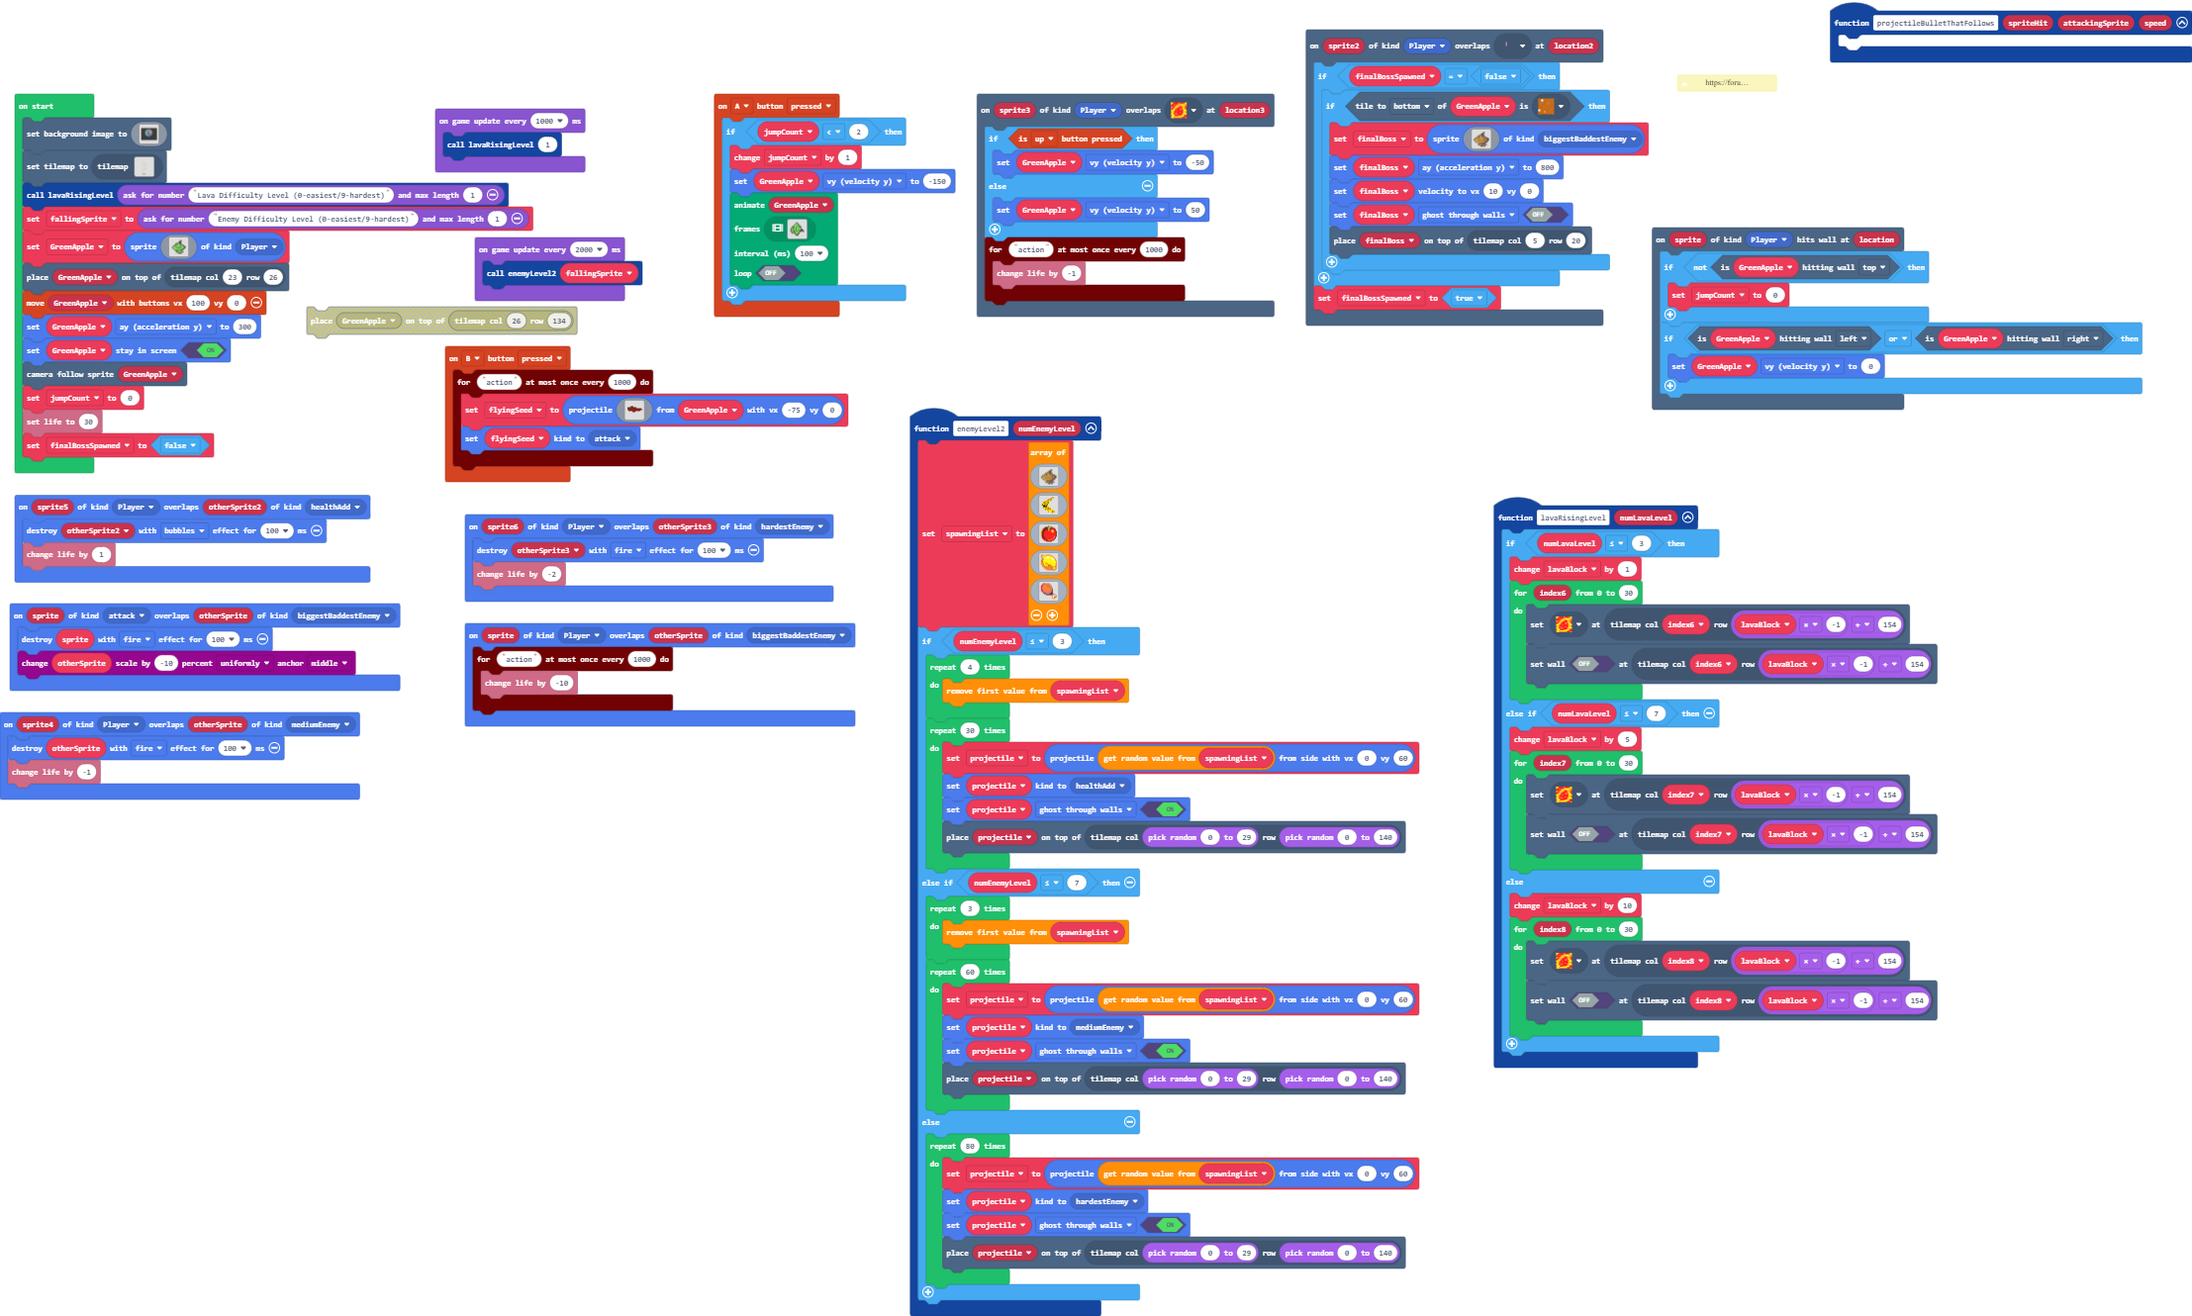
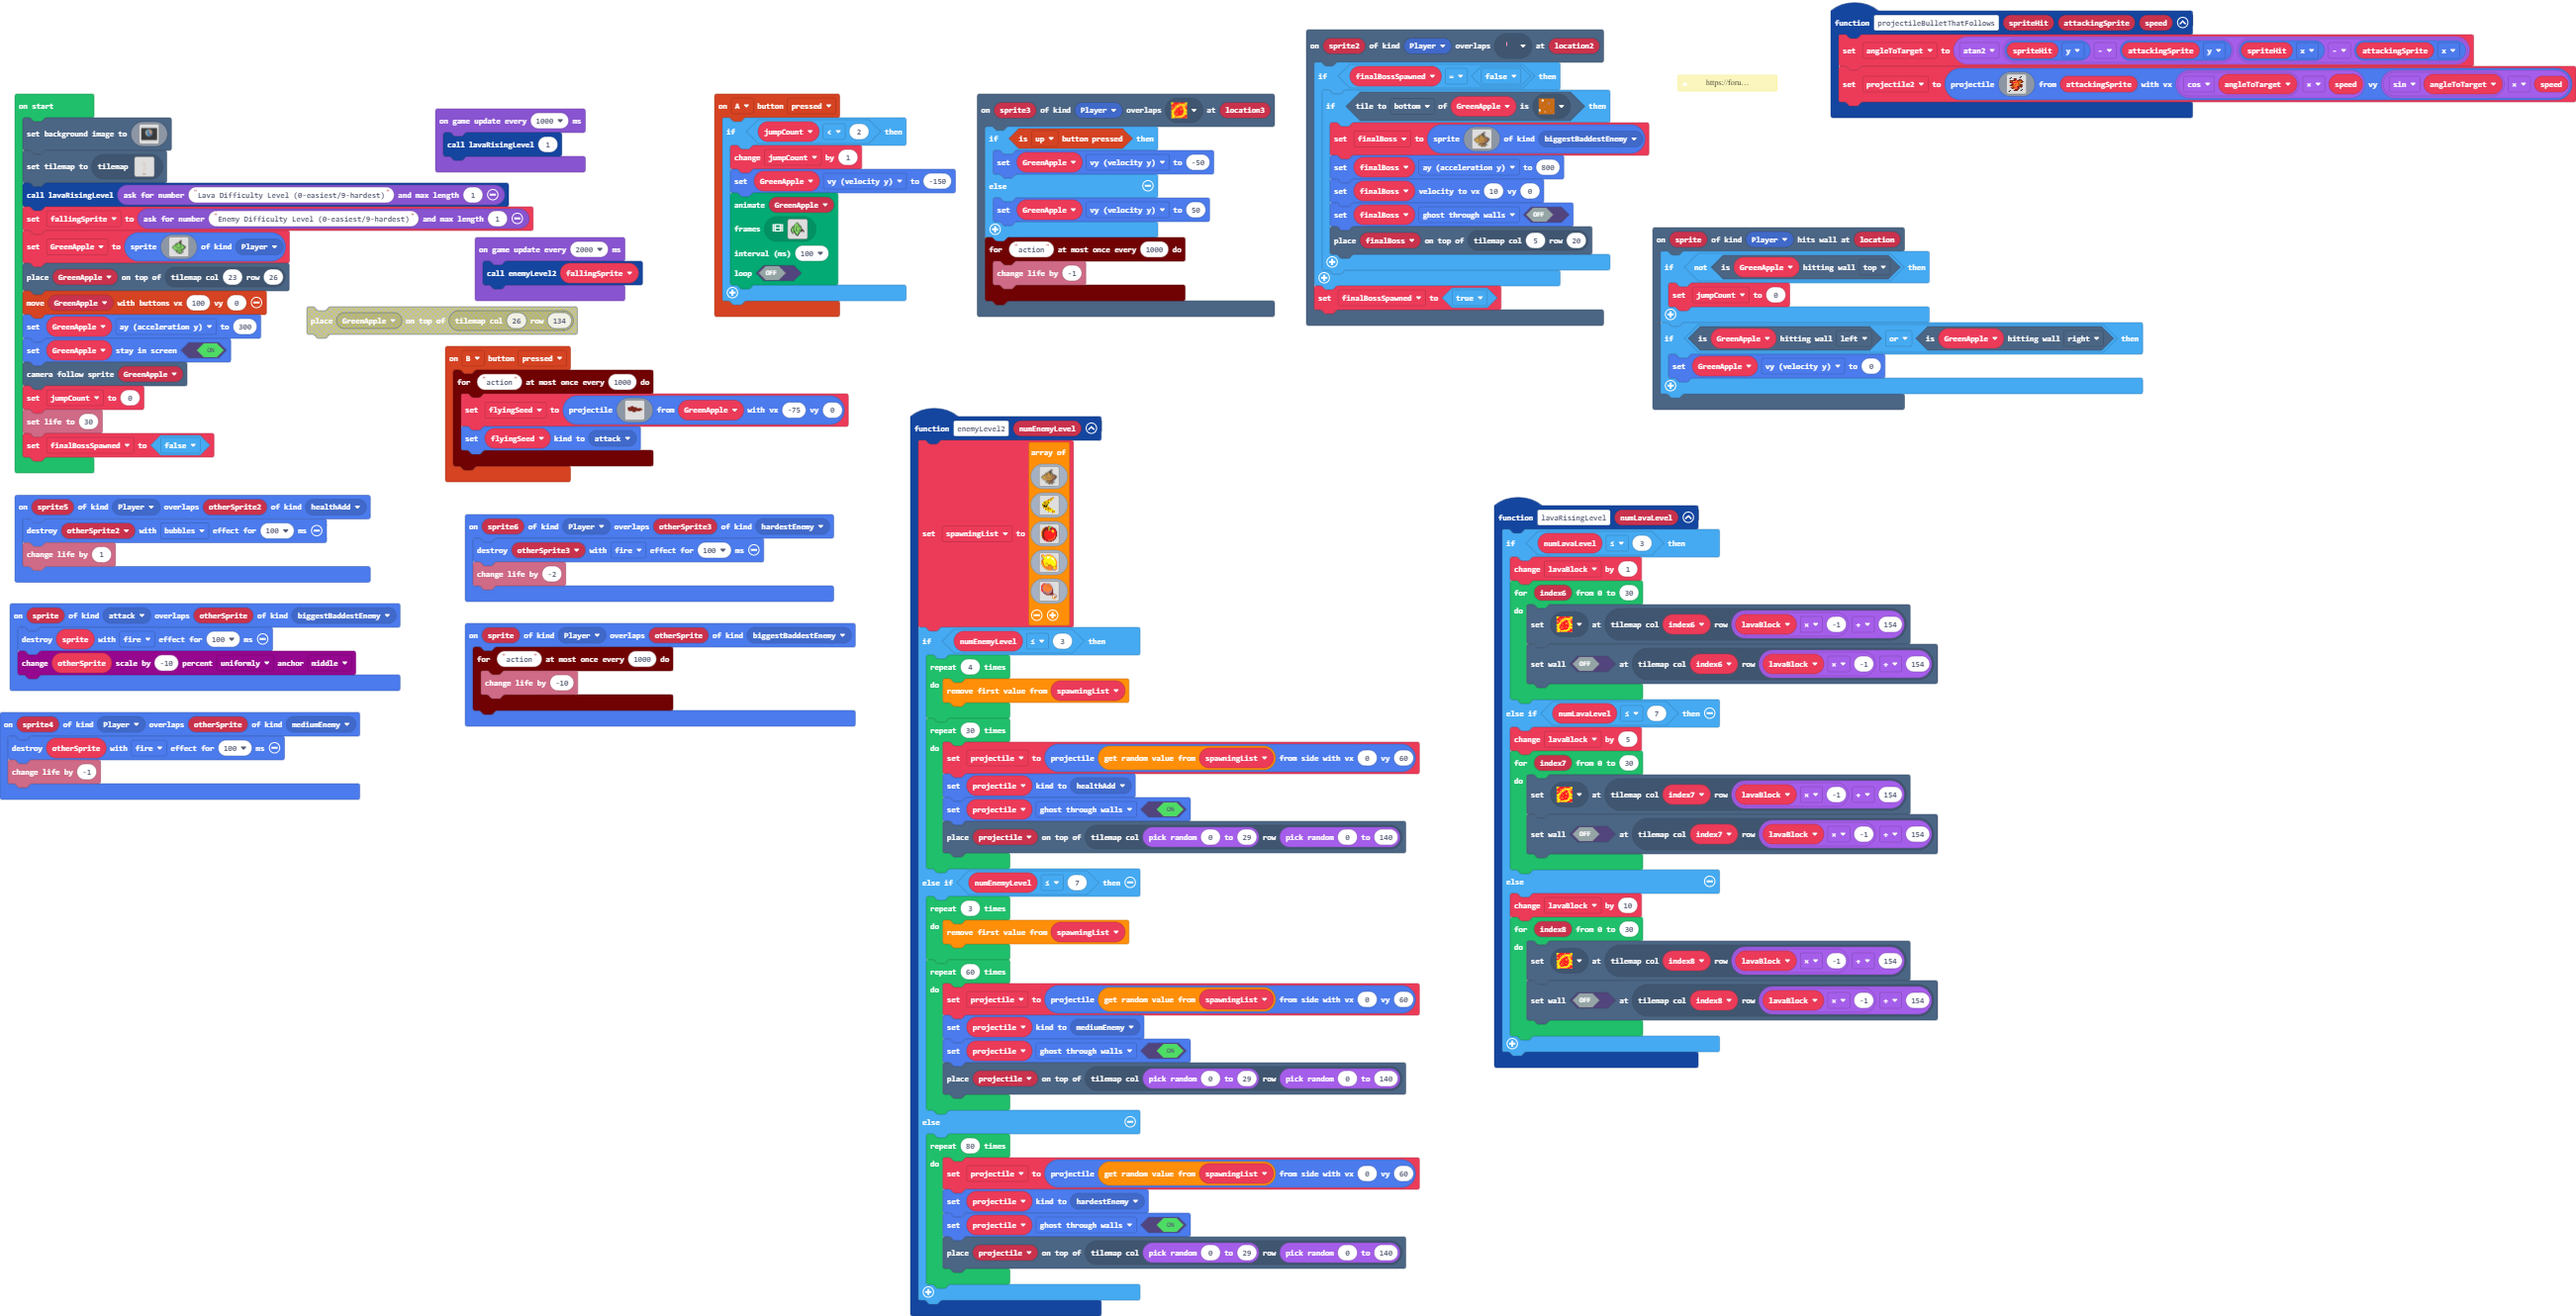
hard math thingy

diff --git a/images.g.ts b/images.g.ts
@@ -157,6 +157,25 @@ fff77ccddddddddddddddddcccc77cccffffff77cccddddddcccccdd77fffffff7777dddeeeeccdd
 ....................................................................................................
 ....................................................................................................
 `;
+            case "image3":
+            case "caca":return img`
+. . . . . . . . . . . . f . . . 
+. . f . . . . . . . . f . . . . 
+. f . . . e e e . . . . . . . . 
+. . . . . e e e . . e e e . . . 
+. e e e e e e 4 2 e e d e e . . 
+. e d e 4 4 4 4 2 d d d c e e . 
+. e e e 2 2 2 2 c 2 d c e e . . 
+. . . e 2 4 4 4 4 2 d d . . . . 
+. . e e e 4 d d 4 d d e e e . . 
+. e e e 2 d d 4 4 d d e e e . . 
+. . . d d d 4 4 2 e e e e e . . 
+. . e d e 2 2 4 2 e e . e . . . 
+. . . e e 4 4 4 2 e e . . . . . 
+. . . . . . e e e e . . . f . . 
+. f . . . e e e e . . . f . . . 
+f . . . . . . . . . . . . . . . 
+`;
         }
         return null;
     })

diff --git a/main.ts b/main.ts
@@ -44,7 +44,8 @@ controller.B.onEvent(ControllerButtonEvent.Pressed, function () {
     })
 })
 function projectileBulletThatFollows (spriteHit: Sprite, attackingSprite: Sprite, speed: number) {
-	
+    angleToTarget = Math.atan2(spriteHit.y - attackingSprite.y, spriteHit.x - attackingSprite.x)
+    projectile2 = sprites.createProjectileFromSprite(assets.image`caca`, attackingSprite, Math.cos(angleToTarget) * speed, Math.sin(angleToTarget) * speed)
 }
 sprites.onOverlap(SpriteKind.Player, SpriteKind.healthAdd, function (sprite5, otherSprite2) {
     sprites.destroy(otherSprite2, effects.bubbles, 100)
@@ -300,6 +301,8 @@ let finalBoss: Sprite = null
 let lavaBlock = 0
 let projectile: Sprite = null
 let spawningList: Image[] = []
+let projectile2: Sprite = null
+let angleToTarget = 0
 let flyingSeed: Sprite = null
 let finalBossSpawned = false
 let jumpCount = 0
